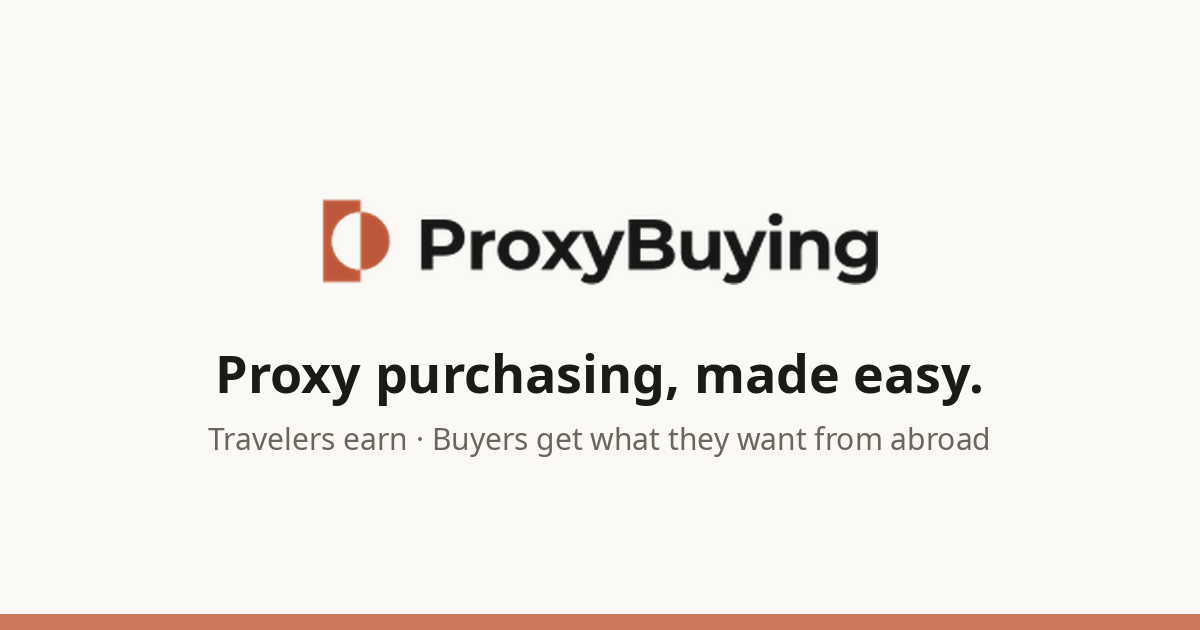
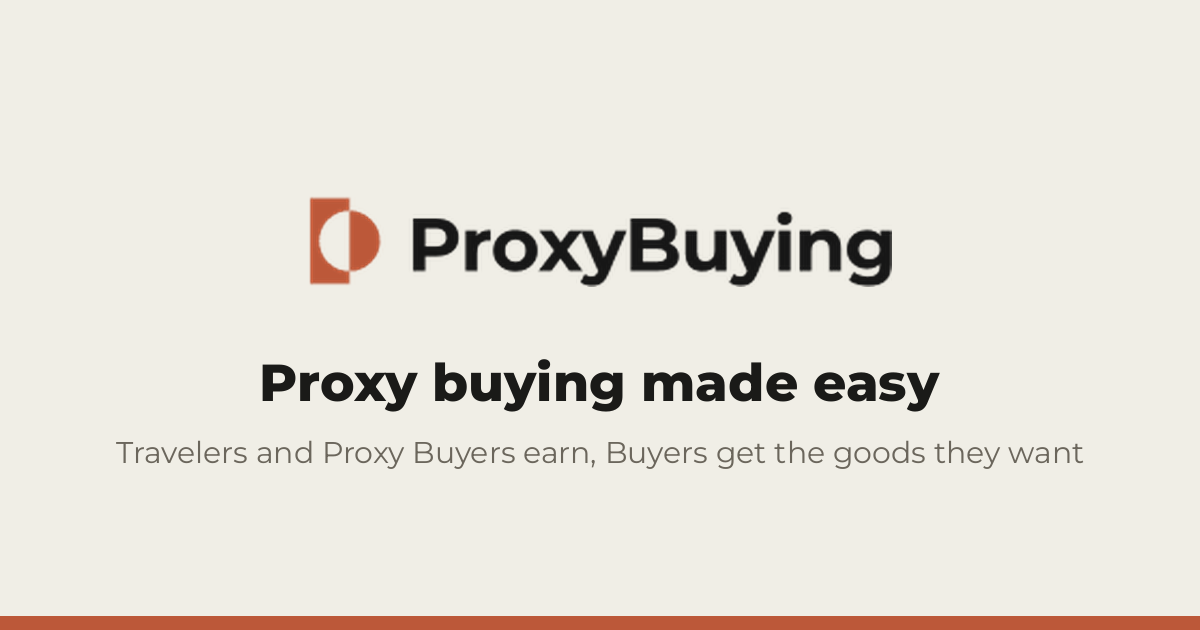
Refresh OG/link-preview image and description
- og-default.png: tagline "Proxy purchasing, made easy." -> "Proxy buying
  made easy" (no punctuation); subtitle -> "Travelers and Proxy Buyers earn,
  Buyers get the goods they want".
- og:description -> "Buying goods abroad made easy" (was "Travel-powered
  proxy purchasing."). og:title already resolved to "ProxyBuying" (SITE_NAME).

Changed region(s): [[0.0925, 0.5429, 0.8942, 0.754], [0.0, 0.9651, 1.0, 1.0], [0.2467, 0.3016, 0.7708, 0.4524]]

diff --git a/templates/base.html b/templates/base.html
@@ -11,7 +11,7 @@
   <meta property="og:type" content="website">
   <meta property="og:site_name" content="{{ SITE_NAME }}">
   <meta property="og:title" content="{% block og_title %}{{ SITE_NAME }}{% endblock %}">
-  <meta property="og:description" content="{% block og_description %}Travel-powered proxy purchasing.{% endblock %}">
+  <meta property="og:description" content="{% block og_description %}Buying goods abroad made easy{% endblock %}">
   <meta property="og:url" content="{{ request.build_absolute_uri }}">
   <meta property="og:locale" content="en_US">
   <meta property="og:image" content="{% block og_image %}{{ request.scheme }}://{{ request.get_host }}{% static 'img/og-default.png' %}{% endblock %}">
